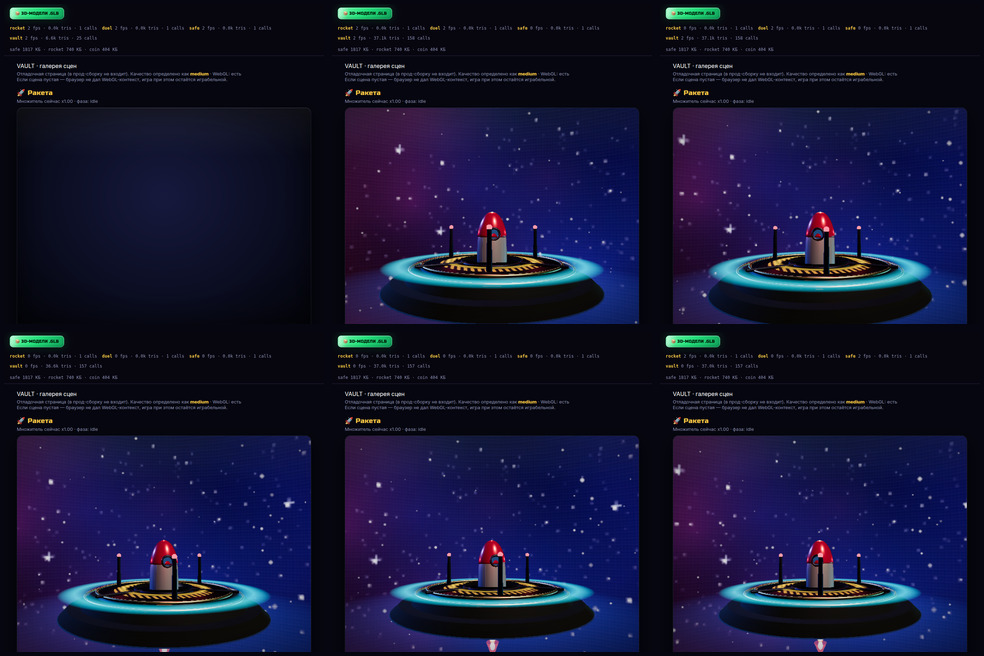
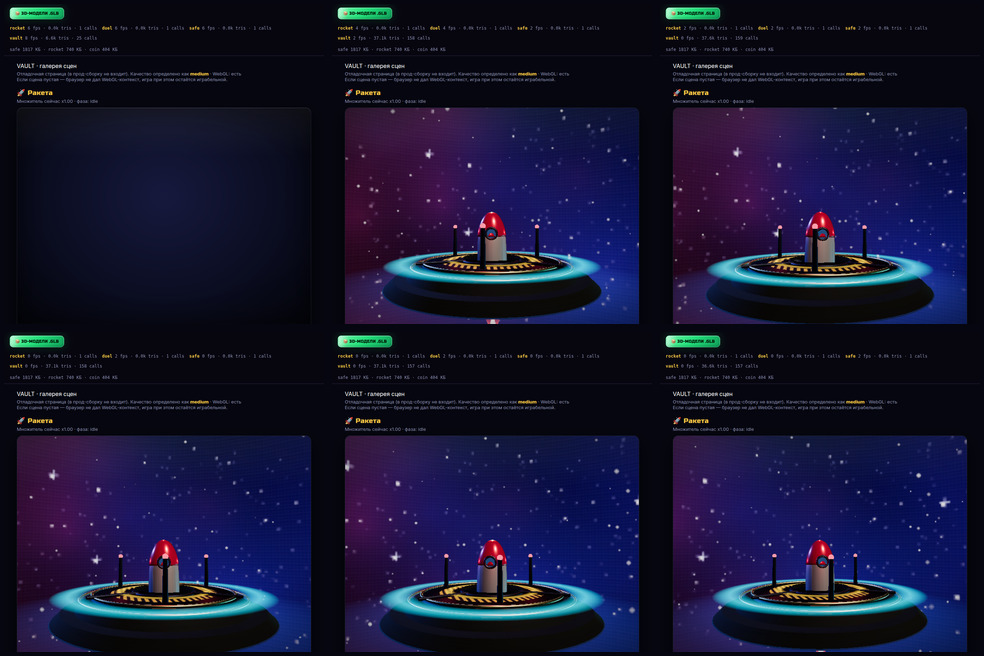
docs: карточка V-1-1 активна — состав и версии приведены к факту (#16)
* docs: версии плана фаз, очереди и шаблона сведены к ТЗ 1.2

Гейт D-086 читает docs/PHASES.md как «опубликованную» редакцию, а
relay-repo-visibility-smoke требует совпадения номера в плане и в шаблоне.
Живое ТЗ миссии — 1.2, а план стоял на 1.0: приёмка с версией 1.2 встала бы
паузой answer-unpublished, и первый же круг V-1-1 не закрылся бы.

- docs/PHASES.md: Версия 1.0 → 1.2 + примечание о гейте.
- docs/missions/V-1-1-card-queue.md: редакция 1.0 / ТЗ 1.1 → 1.1 / ТЗ 1.2.
- docs/missions/TEMPLATE.md: Версия ТЗ 1.0 → 1.2 (требование smoke-пробы).

npm run verify: 172 pass / 0 fail, rc=0.

* chore(eyes): сводный кадр сцен [skip ci]

* docs: карточка V-1-1 активна — состав и версии приведены к факту

Мастер заполнил карточку и активировал миссию 12.11. В docs/setup/notion-ids.md
осталось «Состояние = Черновик» и «Версия ТЗ 1.1»: документ описывал прошлое
состояние как текущее, и следующий агент прочитал бы, что цикл ещё не открыт.

- Состояние = Активна, Круг = 0, Координатор заполнен.
- Версия ТЗ 1.1 → 1.2, добавлена редакция очереди 1.1.
- Зафиксировано: очередь нарезана, K1 Draft у Platform Architect, цикл запускается.

* chore(eyes): сводный кадр сцен [skip ci]

* chore(eyes): сводный кадр сцен [skip ci]

---------

diff --git a/docs/setup/notion-ids.md b/docs/setup/notion-ids.md
@@ -121,13 +121,15 @@ Locale & UX Auditor
 
 ### «Миссии» — 1 строка (фаза 1)
 
-`V-1-1 · 3D-модели и сцены под бюджет телефона`, `Состояние = Черновик`, `Круг = 0`.
-ТЗ: `docs/missions/V-1-1.md` (Версия ТЗ 1.1), очередь: `docs/missions/V-1-1-card-queue.md`.
+`V-1-1 · 3D-модели и сцены под бюджет телефона`, `Состояние = Активна`, `Круг = 0`,
+`Координатор` — ссылка на строку Coordinator в «Ролях».
+ТЗ: `docs/missions/V-1-1.md` (Версия ТЗ 1.2), очередь: `docs/missions/V-1-1-card-queue.md`
+(редакция 1.1, ТЗ 1.2).
 Строка `VAULT-1` из фазы 0 остаётся в корзине Notion как история; файлы — в `docs/missions/archive/`.
 
-Перевод в `Активна` делает Warden после того, как Coordinator нарежет очередь и первая карточка
-станет `Ready`. Номер версии ТЗ в шапке обязан совпасть с `docs/PHASES.md` — это сверяет
-`relay-repo-visibility-smoke`.
+**12.11 карточка активна** (по указанию Мастера): транспорт нарезал очередь, K1 `Draft` у
+Platform Architect, Мастер запускает цикл. Номер версии ТЗ в шапке обязан совпасть с
+`docs/PHASES.md` (сейчас 1.2) — это сверяет `relay-repo-visibility-smoke`.
 
 ### «Обратная связь»
 
